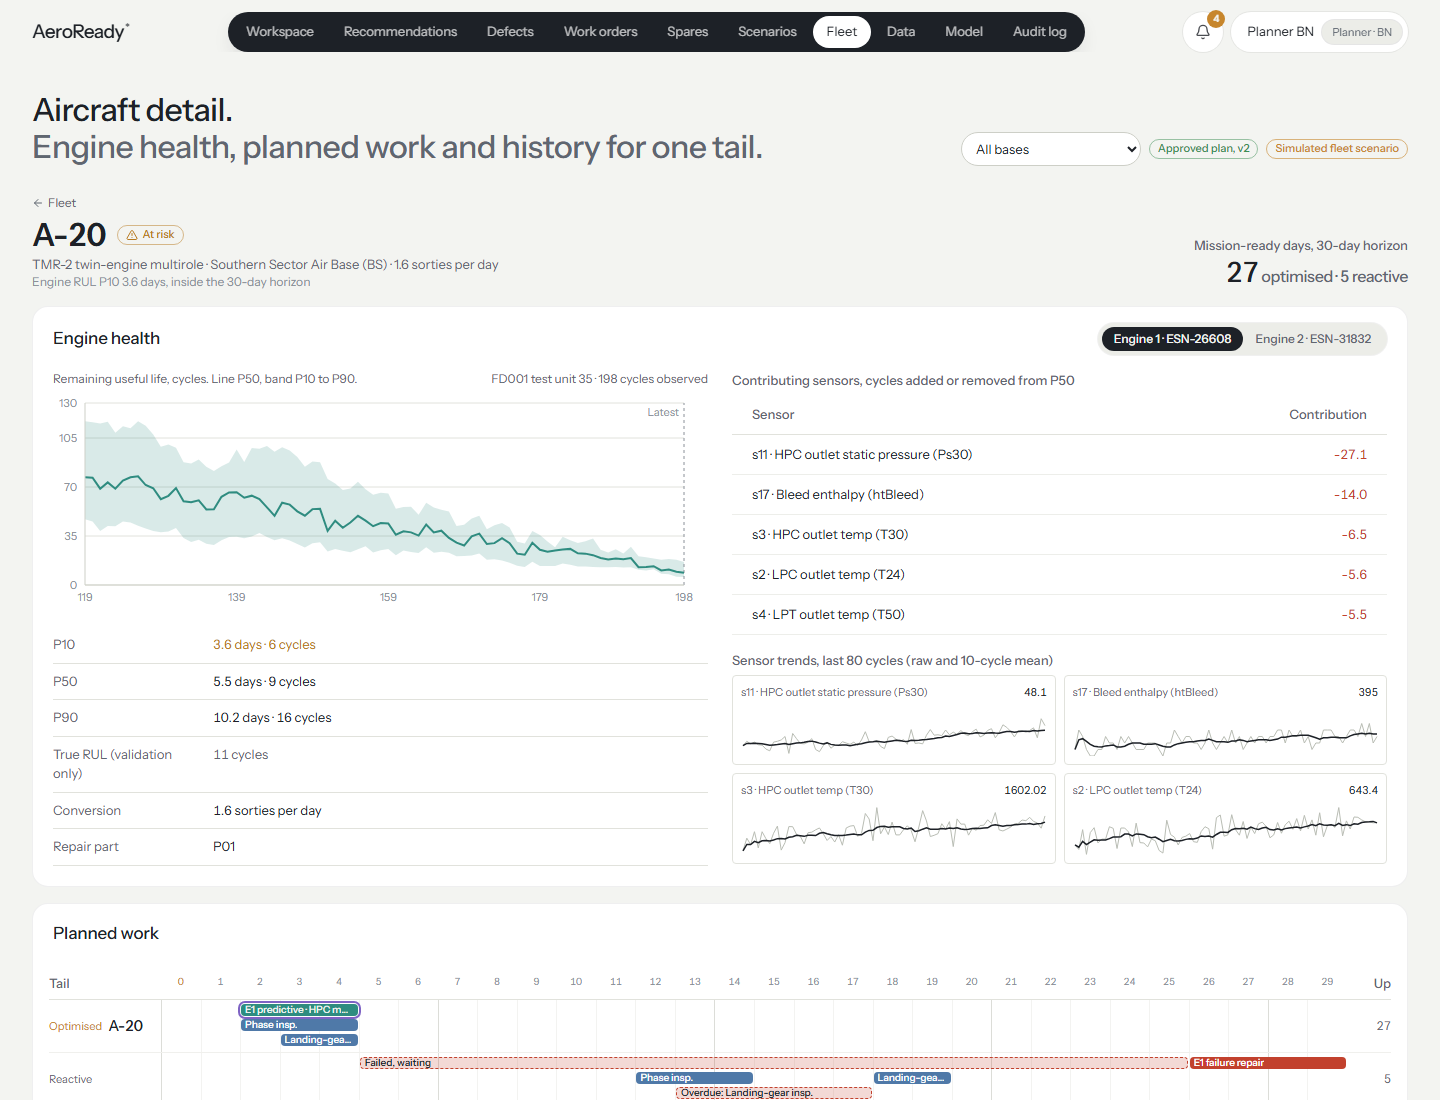
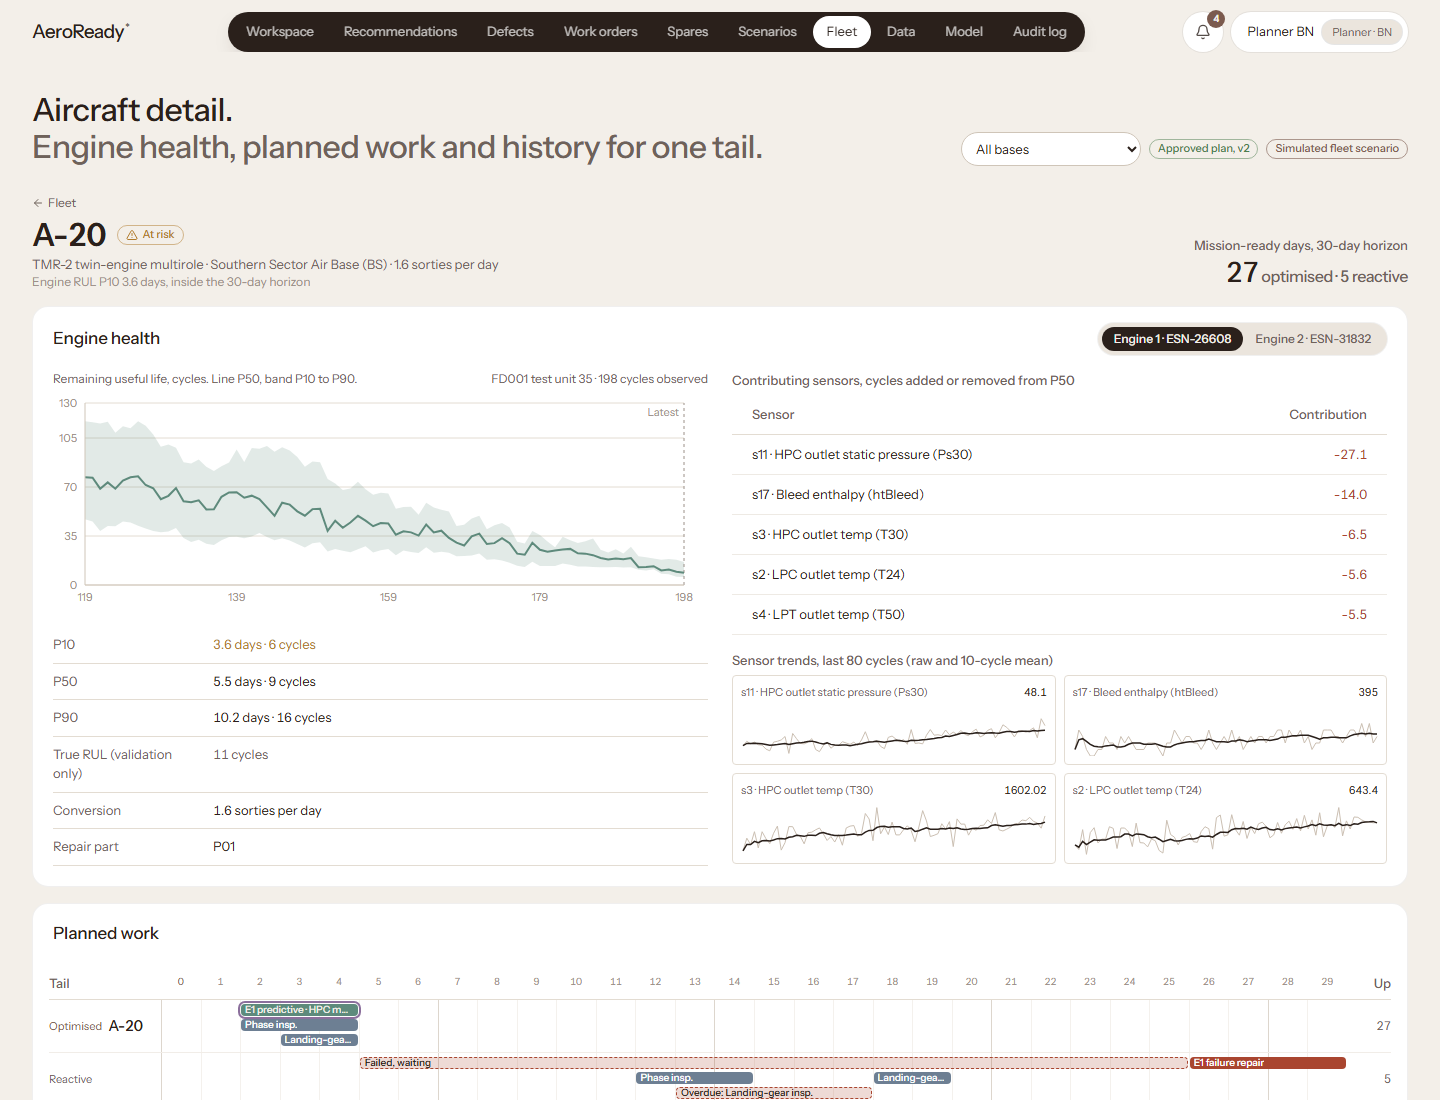
Colour theme from the mocha and espresso reference across the whole site

diff --git a/frontend/src/pages/Landing.tsx b/frontend/src/pages/Landing.tsx
@@ -72,9 +72,9 @@ function Hero() {
     <section className="relative h-screen min-h-[680px] overflow-hidden bg-ink">
       <img src="/img/hero.jpg" alt="A fighter jet banking through storm cloud at dusk"
         className="absolute inset-0 h-full w-full object-cover object-[50%_48%]" />
-      <div className="absolute inset-0 bg-[linear-gradient(to_top,rgba(16,18,22,0.92)_0%,rgba(16,18,22,0.55)_22%,rgba(16,18,22,0.05)_55%,rgba(16,18,22,0.25)_100%)]" />
+      <div className="absolute inset-0 bg-[linear-gradient(to_top,rgba(30,22,18,0.92)_0%,rgba(30,22,18,0.55)_22%,rgba(30,22,18,0.05)_55%,rgba(30,22,18,0.25)_100%)]" />
       <div className="absolute inset-x-0 bottom-0 mx-auto flex max-w-[1440px] flex-col items-start gap-8 px-6 pb-12 lg:flex-row lg:items-end lg:justify-between lg:px-10">
-        <p className="rise select-none text-[clamp(84px,12.5vw,230px)] font-normal leading-[0.78] tracking-[-0.06em] text-[#f6f1e7]" aria-hidden>
+        <p className="rise select-none text-[clamp(84px,12.5vw,230px)] font-normal leading-[0.78] tracking-[-0.06em] text-[#f4ede3]" aria-hidden>
           AeroReady<sup className="ml-2 align-[0.95em] text-[0.2em] font-normal">*</sup>
         </p>
         <div className="rise-late mb-3 max-w-[320px] shrink-0 text-white">
@@ -123,7 +123,7 @@ function Question() {
   return (
     <section id="question" className="relative scroll-mt-16 overflow-hidden">
       <div className="absolute inset-0">
-        <SideRays rayColor1="#e39a3b" rayColor2="#6f9cc9" intensity={3} spread={2.2} speed={1.6} saturation={1.3} blend={0.5} falloff={0.9} opacity={0.85} />
+        <SideRays rayColor1="#c9a27e" rayColor2="#8b6b5e" intensity={3} spread={2.2} speed={1.6} saturation={1.3} blend={0.5} falloff={0.9} opacity={0.85} />
       </div>
       <div className="relative z-[4] mx-auto max-w-[1440px] px-6 py-28 lg:px-10 lg:py-36">
         <h2 className="max-w-[17ch] text-[clamp(40px,5.4vw,76px)] font-medium leading-[1.02] tracking-[-0.035em] text-ink">
@@ -191,16 +191,16 @@ function Idle() {
           </figcaption>
           <div className="space-y-7">
             <Strip label="Reactive" parts={[
-              { w: 32, cls: 'bg-[#dfe7ef] text-[#36506b]', text: 'Flying' },
+              { w: 32, cls: 'bg-[#e6dfd5] text-[#5a4a40]', text: 'Flying' },
               { w: 9, cls: 'bg-bad text-white', text: 'Fails' },
-              { w: 29, cls: 'hatch-red text-[#7a2a1d]', text: 'Waiting for a bay and the part' },
-              { w: 12, cls: 'bg-[#e9d9c2] text-[#6b4a1d]', text: 'Repair' },
-              { w: 18, cls: 'bg-[#dfe7ef] text-[#36506b]', text: 'Flying' },
+              { w: 29, cls: 'hatch-red text-[#7a2f22]', text: 'Waiting for a bay and the part' },
+              { w: 12, cls: 'bg-[#e8d5bf] text-[#6b4a32]', text: 'Repair' },
+              { w: 18, cls: 'bg-[#e6dfd5] text-[#5a4a40]', text: 'Flying' },
             ]} />
             <Strip label="Planned" parts={[
-              { w: 22, cls: 'bg-[#dfe7ef] text-[#36506b]', text: 'Flying' },
+              { w: 22, cls: 'bg-[#e6dfd5] text-[#5a4a40]', text: 'Flying' },
               { w: 12, cls: 'bg-accent text-white', text: 'Repair' },
-              { w: 66, cls: 'bg-[#dfe7ef] text-[#36506b]', text: 'Flying for the rest of the month' },
+              { w: 66, cls: 'bg-[#e6dfd5] text-[#5a4a40]', text: 'Flying for the rest of the month' },
             ]} />
           </div>
           <p className="mt-6 text-[12px] text-dim">Illustration of the mechanism, not fleet data.</p>
@@ -227,7 +227,7 @@ function How() {
         <div className="mt-14 grid grid-cols-1 gap-12 lg:grid-cols-[minmax(0,5fr)_minmax(0,7fr)]">
           <figure className="relative min-h-[460px] overflow-hidden rounded-[32px]">
             <img src="/img/canopy-dusk.jpg" alt="Fighter jet canopy against a dusk sky" className="absolute inset-0 h-full w-full object-cover object-[38%_50%]" />
-            <div className="absolute inset-0 bg-[linear-gradient(to_top,rgba(16,18,22,0.75),transparent_55%)]" />
+            <div className="absolute inset-0 bg-[linear-gradient(to_top,rgba(30,22,18,0.75),transparent_55%)]" />
             <figcaption className="absolute bottom-7 left-7 right-7 text-[22px] font-medium leading-tight tracking-[-0.02em] text-white">One plan for the whole fleet, not one alert per engine.</figcaption>
           </figure>
           <ol className="relative self-center">

diff --git a/frontend/src/index.css b/frontend/src/index.css
@@ -1,25 +1,25 @@
 @import "tailwindcss";
 
-/* Light theme drawn from the hero photograph: mist-white ground, cloud-shadow ink,
-   sunset gold for the plan and attention, dusk sky blue as the second series.
+/* Light theme from the colour reference: linen-stone ground, espresso ink,
+   mocha brown for the plan and attention, candle tan and warm grey as supporting tones.
    Green / amber / red are reserved for status. */
 @theme {
-  --color-bg: #f3f4f1;
+  --color-bg: #f3efe9;
   --color-panel: #ffffff;
-  --color-panel2: #ecede8;
-  --color-line: #e1e2dc;
-  --color-line2: #cdcfc7;
-  --color-ink: #1d2127;
-  --color-muted: #5f6670;
-  --color-dim: #8a9098;
-  --color-accent: #c7862c;
-  --color-ok: #3e8e55;
-  --color-warn: #b7791f;
-  --color-bad: #c2412d;
-  --color-neutral: #5f6670;
-  --color-k-scheduled: #4f79a8;
-  --color-k-predictive: #2f8c80;
-  --color-k-cannibal: #7e63c4;
+  --color-panel2: #ebe5dd;
+  --color-line: #e3dcd2;
+  --color-line2: #cfc5b8;
+  --color-ink: #2a201b;
+  --color-muted: #6e625a;
+  --color-dim: #9b9088;
+  --color-accent: #7b5a4e;
+  --color-ok: #4e7d4f;
+  --color-warn: #b07a2a;
+  --color-bad: #a9452f;
+  --color-neutral: #6e625a;
+  --color-k-scheduled: #6d7f93;
+  --color-k-predictive: #5e8a7c;
+  --color-k-cannibal: #8b6f9c;
   --font-display: "Instrument Sans", system-ui, sans-serif;
   --font-sans: "Instrument Sans", system-ui, sans-serif;
 }
@@ -37,10 +37,10 @@ body {
 .num { font-variant-numeric: tabular-nums; }
 /* Small section label: sentence case, quiet grey. */
 .label-caps { font-size: 13px; font-weight: 500; color: var(--color-muted); letter-spacing: 0; }
-.panel { background: var(--color-panel); border: 1px solid rgba(29, 33, 39, 0.07); border-radius: 16px; }
-.hatch-red { background-image: repeating-linear-gradient(135deg, rgba(194,65,45,.55) 0 3px, rgba(194,65,45,.12) 3px 7px); }
-.hatch-grey { background-image: repeating-linear-gradient(135deg, #cdcfc7 0 3px, #ecede8 3px 7px); }
-.skeleton { background: #e6e7e1; border-radius: 10px; animation: pulse-bg 1.4s ease-in-out infinite; }
+.panel { background: var(--color-panel); border: 1px solid rgba(42, 32, 27, 0.07); border-radius: 16px; }
+.hatch-red { background-image: repeating-linear-gradient(135deg, rgba(169,69,47,.55) 0 3px, rgba(169,69,47,.12) 3px 7px); }
+.hatch-grey { background-image: repeating-linear-gradient(135deg, #cfc5b8 0 3px, #ebe5dd 3px 7px); }
+.skeleton { background: #e7e0d7; border-radius: 10px; animation: pulse-bg 1.4s ease-in-out infinite; }
 @keyframes pulse-bg { 50% { opacity: .45 } }
 @keyframes rise { from { opacity: 0; transform: translateY(24px) } to { opacity: 1; transform: none } }
 .rise { animation: rise .9s cubic-bezier(.2,.7,.2,1) both; }
@@ -48,7 +48,7 @@ body {
 @media (prefers-reduced-motion: reduce) { .skeleton, .rise, .rise-late { animation: none; } }
 :focus-visible { outline: 2px solid var(--color-accent); outline-offset: 2px; }
 ::-webkit-scrollbar { width: 10px; height: 10px; }
-::-webkit-scrollbar-thumb { background: #cdcfc7; border-radius: 6px; }
+::-webkit-scrollbar-thumb { background: #cfc5b8; border-radius: 6px; }
 ::-webkit-scrollbar-track { background: transparent; }
 @layer base {
   html { color-scheme: light; }

diff --git a/frontend/src/pages/AircraftDetail.tsx b/frontend/src/pages/AircraftDetail.tsx
@@ -12,7 +12,7 @@ import { useAircraft, useMeta } from '../lib/queries'
 
 /** Trailing window for the smoothed sensor line. */
 const SMOOTH_CYCLES = 10
-const axis = { tick: { fill: '#8a9098', fontSize: 11 }, axisLine: { stroke: '#cdcfc7' }, tickLine: false as const }
+const axis = { tick: { fill: '#9b9088', fontSize: 11 }, axisLine: { stroke: '#cfc5b8' }, tickLine: false as const }
 const KIND_LABEL: Record<string, string> = { scheduled: 'Scheduled inspection', preventive: 'Predictive maintenance', corrective: 'Unplanned failure repair' }
 
 function RulChart({ e }: { e: EngineDetail }) {
@@ -24,13 +24,13 @@ function RulChart({ e }: { e: EngineDetail }) {
     <div className="h-[220px]">
       <ResponsiveContainer width="100%" height="100%">
         <ComposedChart data={rows} margin={{ top: 8, right: 24, bottom: 0, left: -8 }}>
-          <CartesianGrid stroke="#e1e2dc" vertical={false} />
+          <CartesianGrid stroke="#e3dcd2" vertical={false} />
           <XAxis dataKey="cycle" type="number" domain={['dataMin', 'dataMax']} {...axis} />
           <YAxis domain={[0, Math.ceil(top / 10) * 10]} {...axis} width={40} />
-          <ReferenceLine x={now} stroke="#8a9098" strokeDasharray="3 3" label={{ value: 'Latest', fill: '#8a9098', fontSize: 11, position: 'insideTopRight' }} />
-          <Area dataKey="band" stroke="none" fill="#2f8c80" fillOpacity={0.18} isAnimationActive={false} />
-          <Line dataKey="p50" stroke="#2f8c80" strokeWidth={2} dot={false} isAnimationActive={false} />
-          <Tooltip cursor={{ stroke: '#8a9098', strokeDasharray: '3 3' }} content={({ active, payload }) => {
+          <ReferenceLine x={now} stroke="#9b9088" strokeDasharray="3 3" label={{ value: 'Latest', fill: '#9b9088', fontSize: 11, position: 'insideTopRight' }} />
+          <Area dataKey="band" stroke="none" fill="#5e8a7c" fillOpacity={0.18} isAnimationActive={false} />
+          <Line dataKey="p50" stroke="#5e8a7c" strokeWidth={2} dot={false} isAnimationActive={false} />
+          <Tooltip cursor={{ stroke: '#9b9088', strokeDasharray: '3 3' }} content={({ active, payload }) => {
             if (!active || !payload?.length) return null
             const r = payload[0].payload as (typeof rows)[number]
             return (
@@ -62,8 +62,8 @@ function SensorTrend({ e, sensor, name }: { e: EngineDetail; sensor: string; nam
         <ResponsiveContainer width="100%" height="100%">
           <LineChart data={rows} margin={{ top: 4, right: 2, bottom: 0, left: 2 }}>
             <YAxis domain={['auto', 'auto']} hide /><XAxis dataKey="cycle" hide />
-            <Line dataKey="v" stroke="#b9bdb4" strokeWidth={1} dot={false} isAnimationActive={false} />
-            <Line dataKey="avg" stroke="#1d2127" strokeWidth={1.5} dot={false} isAnimationActive={false} />
+            <Line dataKey="v" stroke="#cbbfb2" strokeWidth={1} dot={false} isAnimationActive={false} />
+            <Line dataKey="avg" stroke="#2a201b" strokeWidth={1.5} dot={false} isAnimationActive={false} />
           </LineChart>
         </ResponsiveContainer>
       </div>

diff --git a/frontend/src/components/AvailabilityChart.tsx b/frontend/src/components/AvailabilityChart.tsx
@@ -8,7 +8,7 @@ export interface Series {
 }
 
 /** Fixed series colours: reactive is dashed grey, the plan is dusk amber. */
-export const SERIES_COLORS = { reactive: '#8a9098', optimized: '#c7862c', compare: ['#c7862c', '#4f79a8', '#2f8c80'] }
+export const SERIES_COLORS = { reactive: '#9b9088', optimized: '#7b5a4e', compare: ['#7b5a4e', '#6d7f93', '#5e8a7c'] }
 
 function Swatch({ s }: { s: Series }) {
   return (
@@ -51,17 +51,17 @@ export default function AvailabilityChart({ series, startDate, maxY, surge, heig
       <div style={{ height }}>
         <ResponsiveContainer width="100%" height="100%">
           <LineChart data={rows} margin={{ top: 8, right: 16, bottom: 4, left: -12 }}>
-            <CartesianGrid stroke="#e1e2dc" vertical={false} />
-            <XAxis dataKey="day" tickFormatter={(d) => `D${d}`} interval={2} tick={{ fill: '#8a9098', fontSize: 11 }}
-              axisLine={{ stroke: '#cdcfc7' }} tickLine={false} />
-            <YAxis domain={[minY, maxY]} ticks={ticks} allowDecimals={false} tick={{ fill: '#8a9098', fontSize: 11 }}
+            <CartesianGrid stroke="#e3dcd2" vertical={false} />
+            <XAxis dataKey="day" tickFormatter={(d) => `D${d}`} interval={2} tick={{ fill: '#9b9088', fontSize: 11 }}
+              axisLine={{ stroke: '#cfc5b8' }} tickLine={false} />
+            <YAxis domain={[minY, maxY]} ticks={ticks} allowDecimals={false} tick={{ fill: '#9b9088', fontSize: 11 }}
               axisLine={false} tickLine={false} width={44} />
             {surge && (
               <ReferenceArea x1={surge.start_day} x2={Math.min(horizon - 1 + dayOffset, surge.end_day)} y1={surge.min_available} y2={maxY}
-                fill="rgba(233,161,91,0.10)" fillOpacity={1} stroke="rgba(233,161,91,0.6)" strokeDasharray="4 3" />
+                fill="rgba(123,90,78,0.10)" fillOpacity={1} stroke="rgba(123,90,78,0.6)" strokeDasharray="4 3" />
             )}
             <Tooltip
-              cursor={{ stroke: '#8a9098', strokeWidth: 1, strokeDasharray: '3 3' }}
+              cursor={{ stroke: '#9b9088', strokeWidth: 1, strokeDasharray: '3 3' }}
               content={({ active, label }) => {
                 if (!active || label == null) return null
                 const d = Number(label)

diff --git a/frontend/src/pages/Model.tsx b/frontend/src/pages/Model.tsx
@@ -4,8 +4,8 @@ import { Panel, QueryView, Segmented, Skeleton } from '../components/ui'
 import { pct } from '../lib/format'
 import { useModelImportance, useModelMetrics, useModelPredictions } from '../lib/queries'
 
-const COLORS = ['#c7862c', '#4f79a8']
-const axis = { tick: { fill: '#8a9098', fontSize: 11 }, axisLine: { stroke: '#cdcfc7' }, tickLine: false as const }
+const COLORS = ['#7b5a4e', '#6d7f93']
+const axis = { tick: { fill: '#9b9088', fontSize: 11 }, axisLine: { stroke: '#cfc5b8' }, tickLine: false as const }
 
 export default function Model() {
   const metrics = useModelMetrics()
@@ -67,11 +67,11 @@ export default function Model() {
                   <div className="h-[340px]">
                     <ResponsiveContainer width="100%" height="100%">
                       <ScatterChart margin={{ top: 8, right: 16, bottom: 4, left: -4 }}>
-                        <CartesianGrid stroke="#e1e2dc" />
+                        <CartesianGrid stroke="#e3dcd2" />
                         <XAxis type="number" dataKey="true_rul_capped" name="True RUL" domain={[0, Math.ceil(max / 10) * 10]} {...axis} />
                         <YAxis type="number" dataKey="p50" name="Predicted P50" domain={[0, Math.ceil(max / 10) * 10]} {...axis} width={44} />
                         <ZAxis range={[28, 28]} />
-                        <ReferenceLine segment={[{ x: 0, y: 0 }, { x: max, y: max }]} stroke="#8a9098" strokeDasharray="4 4" />
+                        <ReferenceLine segment={[{ x: 0, y: 0 }, { x: max, y: max }]} stroke="#9b9088" strokeDasharray="4 4" />
                         <Tooltip cursor={{ strokeDasharray: '3 3' }} content={({ active, payload }) => {
                           if (!active || !payload?.length) return null
                           const r = payload[0].payload as { unit: number; true_rul_capped: number; p10: number; p50: number; p90: number }

diff --git a/frontend/src/pages/Scenarios.tsx b/frontend/src/pages/Scenarios.tsx
@@ -50,7 +50,7 @@ function Section({ title, on, setOn, children }: { title: string; on: boolean; s
     <fieldset className={`rounded-xl border p-3 ${on ? 'border-accent/50' : 'border-line'}`}>
       <legend className="px-1">
         <label className="flex items-center gap-2 text-sm font-medium text-ink">
-          <input type="checkbox" checked={on} onChange={(e) => setOn(e.target.checked)} className="accent-[#c7862c]" />{title}
+          <input type="checkbox" checked={on} onChange={(e) => setOn(e.target.checked)} className="accent-[#7b5a4e]" />{title}
         </label>
       </legend>
       <div className={`grid grid-cols-2 gap-x-3 gap-y-2 text-xs text-muted ${on ? '' : 'pointer-events-none opacity-40'}`}>{children}</div>
@@ -249,7 +249,7 @@ export default function Scenarios() {
                     {d.scenarios.map((s) => (
                       <tr key={s.id} className="border-b border-line/60">
                         <td className="py-2 pr-3">
-                          <input type="checkbox" className="accent-[#c7862c]" aria-label={`Compare ${s.name}`}
+                          <input type="checkbox" className="accent-[#7b5a4e]" aria-label={`Compare ${s.name}`}
                             checked={compare.includes(s.id)} disabled={!compare.includes(s.id) && compare.length >= 3}
                             onChange={(e) => setCompare((c) => e.target.checked ? [...c, s.id] : c.filter((x) => x !== s.id))} />
                         </td>

diff --git a/frontend/src/pages/Login.tsx b/frontend/src/pages/Login.tsx
@@ -31,11 +31,11 @@ export default function Login() {
       <section className="relative hidden overflow-hidden lg:block">
         <img src="/img/typhoon-storm.jpg" alt="A fighter jet banking through storm cloud at dusk"
           className="absolute inset-0 h-full w-full object-cover object-[50%_45%]" />
-        <div className="absolute inset-0 bg-[linear-gradient(to_top,rgba(14,14,13,0.95)_0%,rgba(14,14,13,0.3)_45%,rgba(14,14,13,0.25)_100%)]" />
+        <div className="absolute inset-0 bg-[linear-gradient(to_top,rgba(30,22,18,0.95)_0%,rgba(30,22,18,0.3)_45%,rgba(30,22,18,0.25)_100%)]" />
         <Link to="/" className="absolute left-8 top-6 inline-flex items-center gap-2 rounded-full bg-black/45 px-3.5 py-1.5 text-[13px] text-white/90 ring-1 ring-white/15 backdrop-blur hover:text-white">
           <ArrowLeft className="h-3.5 w-3.5" aria-hidden />Back to overview
         </Link>
-        <p className="rise absolute bottom-10 left-8 select-none text-[clamp(72px,9vw,150px)] font-light leading-[0.8] tracking-[-0.055em] text-[#f6f1e7]" aria-hidden>
+        <p className="rise absolute bottom-10 left-8 select-none text-[clamp(72px,9vw,150px)] font-light leading-[0.8] tracking-[-0.055em] text-[#f4ede3]" aria-hidden>
           AeroReady<sup className="ml-1 align-[0.9em] text-[0.22em] font-normal">*</sup>
         </p>
       </section>

diff --git a/frontend/src/components/GooeyNav.css b/frontend/src/components/GooeyNav.css
@@ -5,12 +5,12 @@
 .gooey-nav-container {
   position: relative;
   --gooey-1: #ffffff;
-  --gooey-2: #f6f1e7;
+  --gooey-2: #f4ede3;
   --gooey-3: #ffffff;
-  --gooey-4: #f6f1e7;
+  --gooey-4: #f4ede3;
   border-radius: 9999px;
-  background: #1d2127;
-  box-shadow: 0 8px 24px -12px rgba(29, 33, 39, 0.45);
+  background: #2a201b;
+  box-shadow: 0 8px 24px -12px rgba(42, 32, 27, 0.45);
   padding: 4px;
   max-width: 100%;
 }
@@ -72,7 +72,7 @@
 }
 
 .gooey-nav-container nav ul li.active {
-  color: #1d2127;
+  color: #2a201b;
 }
 
 .gooey-nav-container nav ul li.active::after {
@@ -103,7 +103,7 @@
 }
 
 .gooey-nav-container .effect.text.active {
-  color: #1d2127;
+  color: #2a201b;
 }
 
 .gooey-nav-container .effect.filter {

diff --git a/frontend/src/components/CapacityHeatmap.tsx b/frontend/src/components/CapacityHeatmap.tsx
@@ -1,7 +1,7 @@
 import type { CapacityResponse } from '../lib/api'
 import { dayDate } from '../lib/format'
 
-const LEVELS: [string, string][] = [['bg-panel2', 'Idle'], ['bg-[#cdcfc7]', 'Under 50%'], ['bg-[#8a9098]', '50 to 80%'], ['bg-[#5f6670]', '80 to 99%'], ['bg-accent', 'Full']]
+const LEVELS: [string, string][] = [['bg-panel2', 'Idle'], ['bg-[#cfc5b8]', 'Under 50%'], ['bg-[#9b9088]', '50 to 80%'], ['bg-[#6e625a]', '80 to 99%'], ['bg-accent', 'Full']]
 
 function cell(used: number, total: number): string {
   if (total === 0) return used > 0 ? 'bg-bad' : 'bg-panel2'

diff --git a/CLAUDE.md b/CLAUDE.md
@@ -16,7 +16,7 @@ AeroReady is a defence maintenance-planning tool for SIH 2026 problem 26249. It 
 - Sentence case everywhere.
 
 ## Visual design
-- Light theme across the whole site (decided 2026-10-05). The palette is drawn from the hero photograph (`frontend/public/img/hero.jpg`): mist-white ground #f3f4f1, white surfaces, lines #e1e2dc, cloud-shadow ink #1d2127, grey #5f6670. One accent, sunset gold #c7862c, for the plan series and attention; dusk sky blue #4f79a8 as the second series. Green / amber / red only for status.
+- Light theme across the whole site (decided 2026-10-05). Colours follow the user's colour reference (spa site mock-up, mocha and espresso): linen-stone ground #f3efe9, white surfaces, panel tint #ebe5dd, lines #e3dcd2, espresso ink #2a201b (also primary buttons and the nav pill), warm grey #6e625a. One accent, mocha brown #7b5a4e, for the plan series and attention; candle tan #c9a27e as a warm highlight. Status colours are muted earth tones: green #4e7d4f, amber #b07a2a, red #a9452f, and only for status.
 - Landing page and sign-in follow the hero reference: full-bleed photograph, very large light wordmark "AeroReady*" bottom-left, short description and pill call-to-action bottom-right, small dark pill navigation top centre. Sections below the hero are light and typographic: no card grids, numbered markers only where the content is a sequence.
 - Navigation everywhere is React Bits GooeyNav (`src/components/GooeyNav.tsx`) as a dark pill on the light page. Headers behind it must be opaque (the gooey blend layer smudges over translucent backgrounds).
 - The section after the hero uses React Bits SideRays (`src/components/SideRays.tsx`, ogl), adapted to output tinted light on a pale background.
